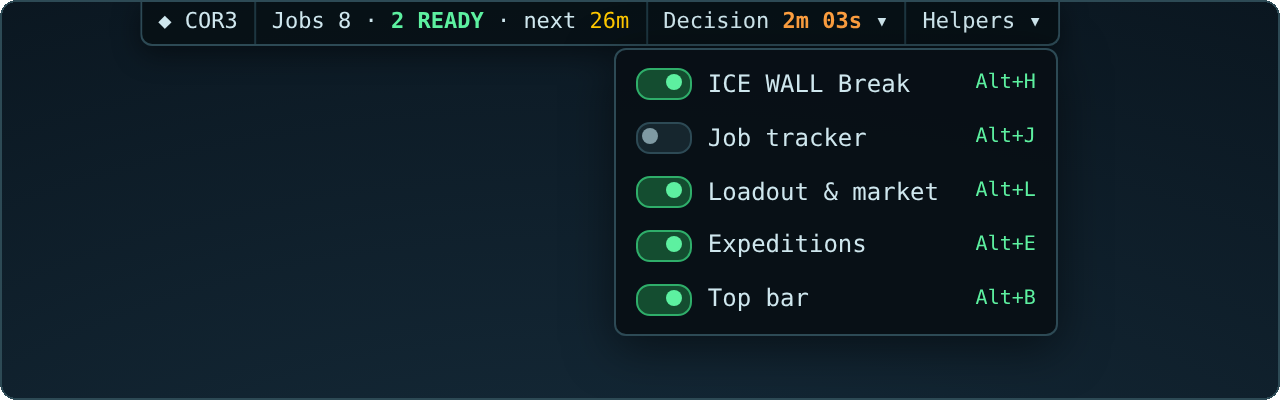
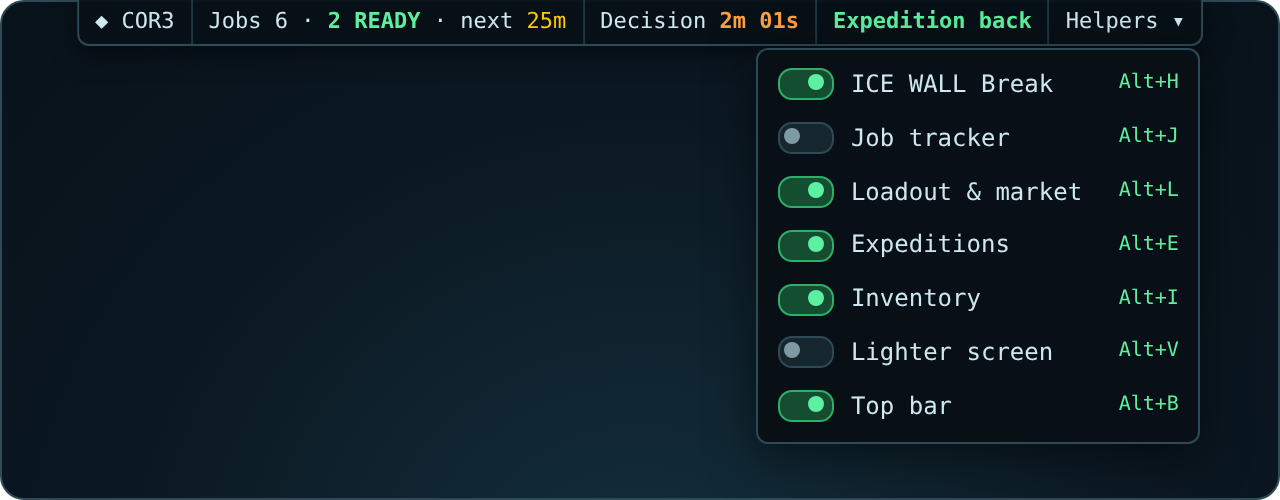
README: new images for 1.2.6
Job tracker panel in the new styling (route under a server behind a hack),
market job cards with the per-job check/cross and blocker tooltip, inventory
rarity borders and prices, mercenary odds, and the top bar with the new
helpers and "Expedition back". Same frame as the other images. Mercenary odds
line now wraps on narrow cards.

Claude-Session: https://claude.ai/code/session_01YcDZAkyGHnBCa26kWABLui

diff --git a/expeditions.js b/expeditions.js
@@ -350,7 +350,7 @@
       if (!line) {
         line = document.createElement("div");
         line.className = ODDS_CLASS;
-        line.style.cssText = "font-size:11px;font-weight:700;margin-top:4px;white-space:nowrap";
+        line.style.cssText = "font-size:11px;font-weight:700;margin-top:4px";
         el.appendChild(line);
       }
       if (line.textContent !== text) line.textContent = text;

diff --git a/README.md b/README.md
@@ -72,7 +72,7 @@ As more glyphs are revealed the yellow options shrink until one turns green.
 
 ## Job tracker
 
-<img src="docs/job-tracker.png" alt="Job tracker panel with two taken File Decryption jobs and their to-do items" width="337">
+<img src="docs/job-tracker.png" alt="Job tracker panel with two taken jobs, their to-do items, server access and the route to a server behind a hack" width="394">
 
 A panel you can drag around, minimise or hide with Alt+J. For every job you've taken it shows:
 
@@ -99,6 +99,8 @@ Hovering the ✗ lists what blocks it, e.g. a server in maintenance with its tim
 HACK power, no route from Home, or a server that isn't on your network map yet. Open the network map and
 your Loadout once so the tracker knows the routes and your HACK power.
 
+<img src="docs/job-cards.png" alt="Market job cards with a green check on the jobs you can do now and a red cross with the blocking server on hover" width="584">
+
 ## Expeditions
 
 When a drone event asks for a decision, hovering an option shows the game's popup with **Risk** and
@@ -122,6 +124,8 @@ When you set up an expedition, each mercenary the game has priced gets a line wi
 **Death 4% · Fail, survives 12%** (red from 10% death).
 The odds appear once you've picked that mercenary in the setup, because that's when the game sends them; the
 mission risk then also shows the death chance, e.g. **MODERATE (52) · death 4%**.
+
+<img src="docs/mercenaries.png" alt="Mercenary cards in the expedition setup with each mercenary's death and fail chance" width="646">
 
 ## Loadout & market
 
@@ -153,7 +157,7 @@ and only estimates the change.
 
 ## Top bar
 
-<img src="docs/topbar.png" alt="Top bar with jobs, an open decision and the helper switches" width="640">
+<img src="docs/topbar.png" alt="Top bar with jobs, an open decision, an expedition that is back and the helper switches" width="640">
 
 A small strip at the top centre of the game. It only shows what needs you now, and leaves a part out when there's
 nothing to say:
@@ -177,6 +181,8 @@ purple for epic, orange for legendary and green for quest items. Common items ke
 The price takes the same colour. A line above the items shows the total value of your
 stash and the slots used, e.g. **Stash value 48,200 cr · 34/40 slots**. Hovering a price on a stack shows
 the value of the whole stack. Alt+I turns it off and on.
+
+<img src="docs/inventory.png" alt="Inventory with a sell price on each item and borders in the rarity colours" width="550">
 
 ## Lighter screen
 
